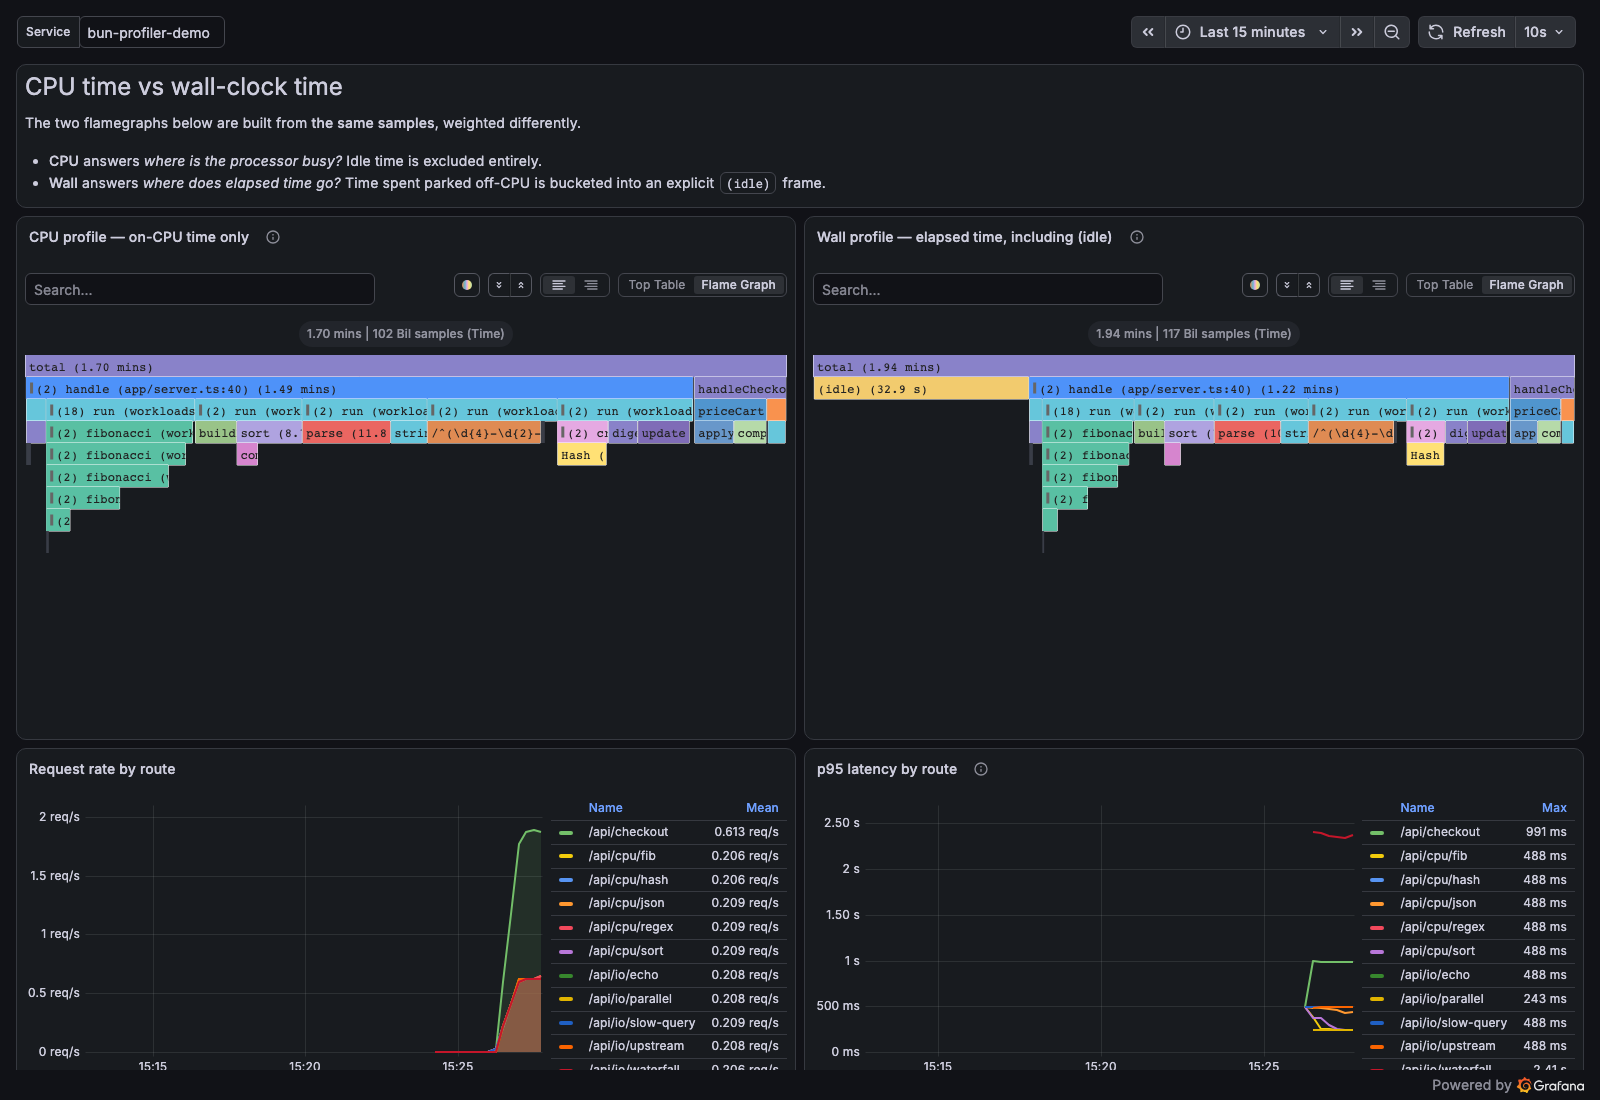
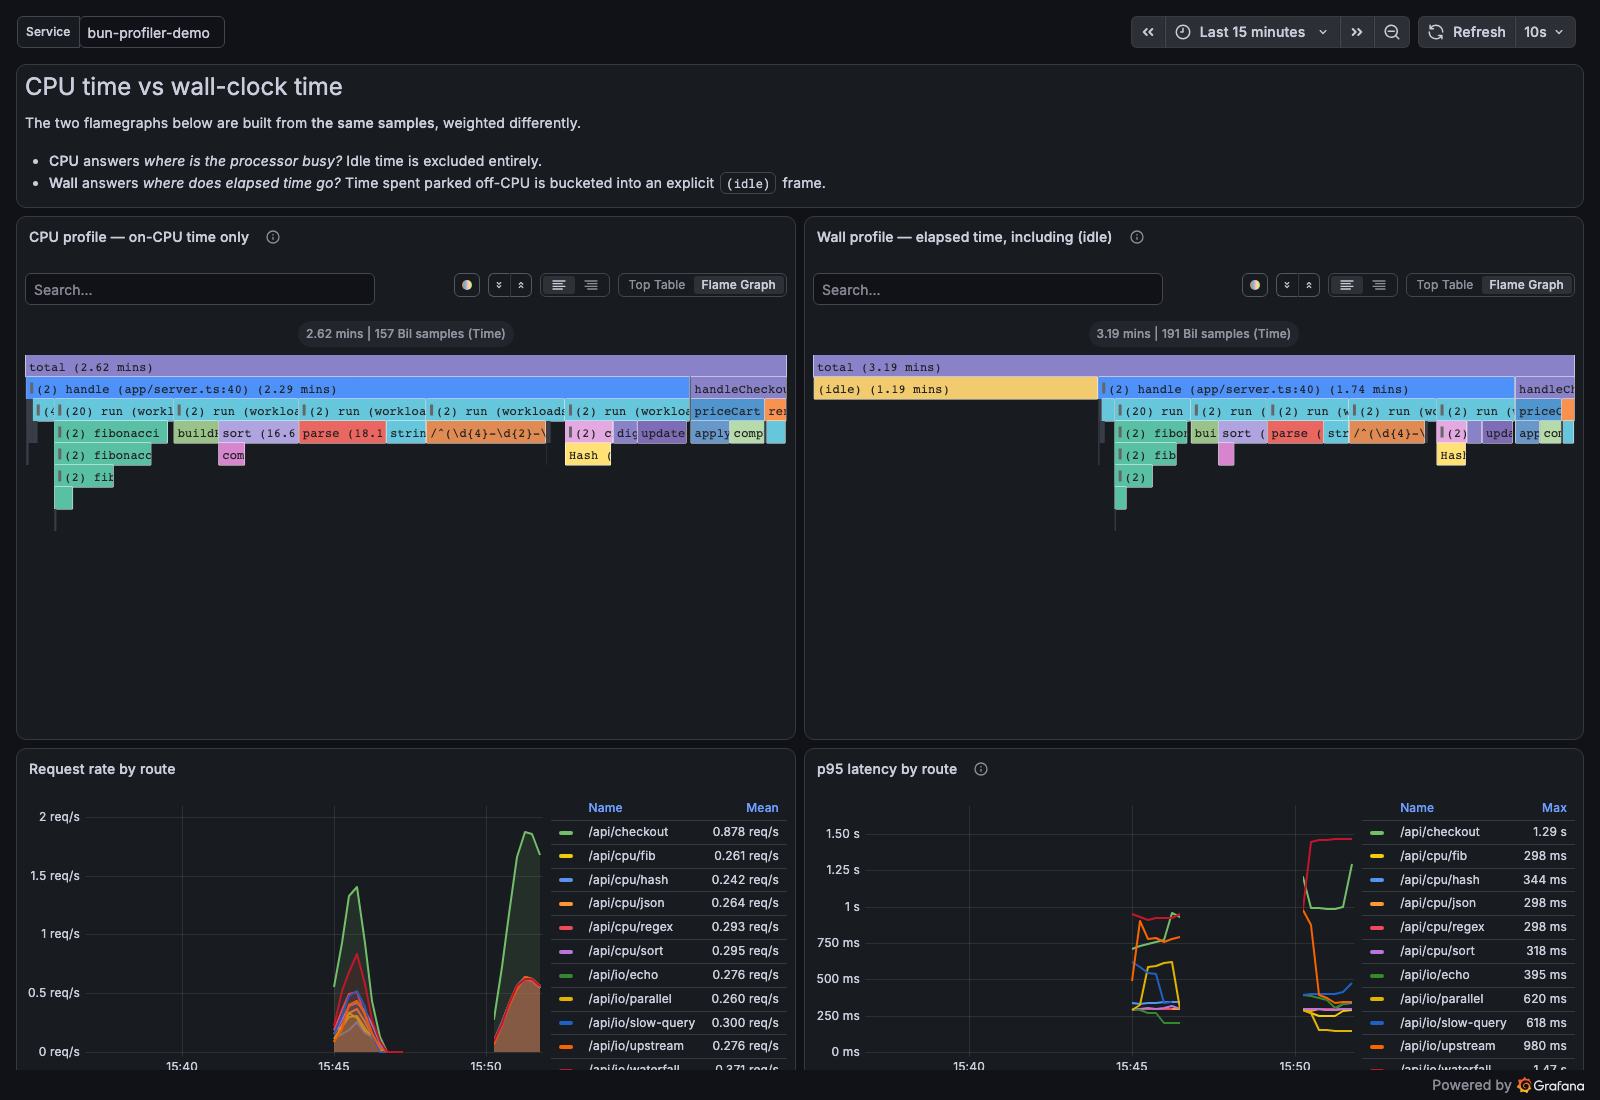
feat: profiler stats(), healthchecks, and honest latency buckets
Robustness pass over the library and the observability stack.

**stats()** — continuous profiling fails quietly: a dead push loop is
indistinguishable from an idle service, which is how the gzip bug survived. The
profiler now tracks pushed/failed/empty windows, last push time and last error,
so a health endpoint can tell the difference. Deliberately does not treat "no
recent push" as a fault — an idle process legitimately produces empty windows,
and using staleness would flap the container healthcheck. Scope stated honestly
in the docs: it reports what the transport did, so it catches a dead loop and
rejected pushes, but not a server that accepts a push and stores nothing.

**Latency buckets were producing fiction.** Edges jumped 100/250/500/1000 while
nearly every request landed between 130ms and 450ms, so histogram_quantile was
interpolating across a 250ms-wide bucket: /api/io/parallel, a ~130ms route,
reported p95 = 466ms, and every route reported ~488ms. Since the panel exists to
compare the serial waterfall against the concurrent version, the resolution has
to beat the difference being measured. With edges added through the 100-800ms
band the CPU routes now read 298-344ms against 247-279ms means, and waterfall
(1.47s) separates cleanly from parallel (620ms).

**Compose.** Healthchecks for app, Grafana and Prometheus, verified against each
image's actual tooling — the Bun image has no curl or wget so the app check runs
[…]

diff --git a/src/profiler.ts b/src/profiler.ts
@@ -11,6 +11,7 @@ import { buildDefaultLabels, encodePyroscopeName, resolveAppName } from "./label
 import type {
   BunPyroscopeOptions,
   CdpProfile,
+  ProfilerStats,
   ResolvedConfig,
   SamplingHeapProfile,
 } from "./types.js";
@@ -82,6 +83,14 @@ export class BunPyroscope {
   private activeCycle: Promise<void> | null = null;
   /** Kept so stop() can remove them — otherwise every instance leaks two listeners. */
   private signalHandlers: { sigterm: () => void; sigint: () => void } | null = null;
+
+  // Counters backing stats(). A profiler that silently stops delivering is the
+  // failure mode that matters here, so it has to be observable from outside.
+  private pushedWindows = 0;
+  private failedWindows = 0;
+  private emptyWindows = 0;
+  private lastPushAt: number | null = null;
+  private lastError: string | null = null;
 
   constructor(options: BunPyroscopeOptions) {
     const appName = resolveAppName(options.appName);
@@ -259,7 +268,11 @@ export class BunPyroscope {
   private async endWindowAndPush(): Promise<void> {
     if (!this.session) return;
 
-    const windowEnd = Math.floor(Date.now() / 1000);
+    // Pyroscope's ingest range is in whole seconds. tag() ends a window as soon
+    // as its callback returns, and pushIntervalMs may be sub-second, so without
+    // this clamp a fast region yields from === until — a zero-length range that
+    // the server stores as an invisible instant.
+    const windowEnd = Math.max(Math.floor(Date.now() / 1000), this.windowStart + 1);
 
     let profile: CdpProfile;
     try {
@@ -276,6 +289,9 @@ export class BunPyroscope {
 
     const folded = convertToFolded(profile);
     if (!folded) {
+      // Counted, not pushed: normal for an idle process, but a run of these
+      // while the service is busy means the profiler isn't seeing the work.
+      this.emptyWindows++;
       this.log("debug", `Empty profile for window [${windowStart}-${windowEnd}], skipping`);
     } else {
       const sampleRate = calculateSampleRate(profile);
@@ -420,6 +436,8 @@ export class BunPyroscope {
           // open — this runs thousands of times over a process's lifetime.
           await response.arrayBuffer().catch(() => undefined);
           const lines = folded.split("\n").length;
+          this.pushedWindows++;
+          this.lastPushAt = Date.now();
           this.log("debug", `Pushed ${lines} stacks [${from}-${until}] HTTP ${response.status}`);
           return;
         }
@@ -431,19 +449,64 @@ export class BunPyroscope {
         // rate limit — Grafana Cloud returns this) and 408 are explicitly
         // retryable. Treating them as fatal drops every window for the whole
         // duration of a rate limit.
-        if (!err.retryable) throw err;
+        if (!err.retryable) {
+          this.recordFailure(err);
+          throw err;
+        }
 
         lastError = err;
         this.log("warn", `Push failed (attempt ${attempt + 1}): ${err.message}`);
       } catch (fetchErr) {
         // Non-retryable HTTP status — propagate rather than burning retries.
-        if (fetchErr instanceof PushError && !fetchErr.retryable) throw fetchErr;
+        if (fetchErr instanceof PushError && !fetchErr.retryable) {
+          this.recordFailure(fetchErr);
+          throw fetchErr;
+        }
         lastError = fetchErr instanceof Error ? fetchErr : new Error(String(fetchErr));
         this.log("warn", `Push error (attempt ${attempt + 1}): ${lastError.message}`);
       }
     }
 
-    if (lastError) throw lastError;
+    if (lastError) {
+      this.recordFailure(lastError);
+      throw lastError;
+    }
+  }
+
+  private recordFailure(err: Error): void {
+    this.failedWindows++;
+    this.lastError = err.message;
+  }
+
+  /**
+   * A snapshot of what the profiler has actually delivered.
+   *
+   * Continuous profiling fails quietly: a broken push loop looks exactly like an
+   * idle process. Surface this from a health endpoint so the difference is
+   * visible.
+   *
+   * @example
+   * const s = profiler.stats();
+   * // Note "nothing pushed lately" is NOT a fault: an idle process produces no
+   * // samples, so windows are legitimately empty. A dead loop, or pushes that
+   * // have only ever failed, are unambiguous.
+   * const degraded = !s.running || (s.pushedWindows === 0 && s.failedWindows > 0);
+   * return Response.json(s, { status: degraded ? 503 : 200 });
+   */
+  stats(): ProfilerStats {
+    const streams = ["cpu"];
+    if (this.config.wallTime.enabled) streams.push("wall");
+    if (this.config.heap.enabled) streams.push("alloc_space");
+
+    return {
+      running: this.running,
+      pushedWindows: this.pushedWindows,
+      failedWindows: this.failedWindows,
+      emptyWindows: this.emptyWindows,
+      lastPushAt: this.lastPushAt,
+      lastError: this.lastError,
+      streams,
+    };
   }
 
   /**

diff --git a/test/profiler.test.ts b/test/profiler.test.ts
@@ -693,6 +693,102 @@ describe("push failure handling", () => {
   });
 });
 
+describe("ingest window bounds", () => {
+  it("never pushes a zero-length range, even for a sub-second window", async () => {
+    const urls: string[] = [];
+    (globalThis as unknown as { fetch: unknown }).fetch = mock((url: string) => {
+      urls.push(url);
+      return Promise.resolve(new Response("ok", { status: 200 }));
+    });
+
+    // tag() closes its window the moment the callback returns, so this is the
+    // realistic way to produce from === until.
+    profiler = new BunPyroscope(BASE);
+    await profiler.start();
+    await profiler.tag({ job: "quick" }, () => 1 + 1);
+    await profiler.stop();
+    profiler = null;
+
+    expect(urls.length).toBeGreaterThan(0);
+    for (const url of urls) {
+      const params = new URL(url).searchParams;
+      const from = Number(params.get("from"));
+      const until = Number(params.get("until"));
+      expect(until).toBeGreaterThan(from);
+    }
+
+    (globalThis as unknown as { fetch: unknown }).fetch = _fetchMock;
+  });
+});
+
+describe("stats()", () => {
+  it("reports nothing delivered before start()", () => {
+    const p = new BunPyroscope(BASE);
+    expect(p.stats()).toMatchObject({
+      running: false,
+      pushedWindows: 0,
+      failedWindows: 0,
+      lastPushAt: null,
+      lastError: null,
+    });
+  });
+
+  it("counts a delivered window and timestamps it", async () => {
+    const before = Date.now();
+    profiler = new BunPyroscope(BASE);
+    await profiler.start();
+    await profiler.stop();
+
+    const s = profiler.stats();
+    profiler = null;
+
+    expect(s.pushedWindows).toBeGreaterThan(0);
+    expect(s.failedWindows).toBe(0);
+    expect(s.lastError).toBeNull();
+    expect(s.lastPushAt).toBeGreaterThanOrEqual(before);
+  });
+
+  it("records the failure instead of reporting a clean profiler", async () => {
+    (globalThis as unknown as { fetch: unknown }).fetch = mock(() =>
+      Promise.resolve(new Response("nope", { status: 400 }))
+    );
+
+    profiler = new BunPyroscope({ ...BASE, maxRetries: 0 });
+    await profiler.start();
+    await profiler.stop();
+
+    const s = profiler.stats();
+    profiler = null;
+
+    // Pushes attempted, none accepted — the profiler must not look healthy.
+    expect(s.pushedWindows).toBe(0);
+    expect(s.failedWindows).toBeGreaterThan(0);
+    expect(s.lastError).toContain("HTTP 400");
+
+    (globalThis as unknown as { fetch: unknown }).fetch = _fetchMock;
+  });
+
+  it("lists the enabled profile streams", async () => {
+    const cpuOnly = new BunPyroscope(BASE);
+    expect(cpuOnly.stats().streams).toEqual(["cpu"]);
+
+    const withWall = new BunPyroscope({ ...BASE, wallTime: { enabled: true } });
+    expect(withWall.stats().streams).toEqual(["cpu", "wall"]);
+  });
+
+  it("tracks running state across start and stop", async () => {
+    profiler = new BunPyroscope(BASE);
+    expect(profiler.stats().running).toBe(false);
+
+    await profiler.start();
+    expect(profiler.stats().running).toBe(true);
+
+    await profiler.stop();
+    expect(profiler.stats().running).toBe(false);
+    profiler = null;
+  });
+});
+
 describe("shutdown handlers", () => {
   function signalListenerCount() {
     return process.listenerCount("SIGTERM") + process.listenerCount("SIGINT");

diff --git a/src/types.ts b/src/types.ts
@@ -149,6 +149,38 @@ export interface BunPyroscopeOptions {
   };
 }
 
+/**
+ * A snapshot of what the profiler has actually managed to do.
+ *
+ * Continuous profiling fails quietly by nature: it runs in the background, and
+ * a broken push looks exactly like an idle process — no data either way. Expose
+ * this from a health endpoint so a profiler that has stopped delivering is
+ * visible rather than merely absent.
+ *
+ * It reports what the transport did, so it catches a dead loop and rejected
+ * pushes. It cannot catch a server that accepts a push and then stores nothing.
+ */
+export interface ProfilerStats {
+  /** Whether the push loop is currently active. */
+  running: boolean;
+  /** Windows accepted by the server. */
+  pushedWindows: number;
+  /** Windows dropped after exhausting retries. */
+  failedWindows: number;
+  /**
+   * Windows that produced no samples and were skipped. Entirely normal for an
+   * idle process; a count that tracks pushedWindows means the profiler isn't
+   * seeing your workload.
+   */
+  emptyWindows: number;
+  /** ms since epoch of the last accepted push, or null if none has succeeded. */
+  lastPushAt: number | null;
+  /** Message from the most recent failure, or null. */
+  lastError: string | null;
+  /** Profile types being pushed, e.g. ["cpu", "wall"]. */
+  streams: string[];
+}
+
 /** Internal fully-resolved configuration with all defaults applied. */
 export interface ResolvedConfig {
   pyroscopeUrl: string;

diff --git a/dev/app/server.ts b/dev/app/server.ts
@@ -66,7 +66,27 @@ const routes: Record<string, (req: Request) => Promise<Response> | Response> = {
       headers: { "Content-Type": "text/plain; version=0.0.4; charset=utf-8" },
     }),
 
-  "/health": () => Response.json({ status: "ok", app: APP_NAME }),
+  // Reports the profiler's own delivery state, not just "the process is up".
+  // A profiler that has stopped pushing is otherwise indistinguishable from an
+  // idle one, which is exactly how the gzip bug hid for so long.
+  "/health": () => {
+    const profiling = profiler.stats();
+
+    // Deliberately not "nothing pushed recently": an idle process produces no
+    // samples, so silence is normal and would flap the container healthcheck.
+    // What is never normal is the loop being dead, or every push failing.
+    //
+    // Note this cannot catch a server that accepts a push and stores nothing
+    // (the gzip case answered HTTP 200), which is why that is handled by
+    // defaulting compress off rather than by monitoring.
+    const degraded =
+      !profiling.running || (profiling.pushedWindows === 0 && profiling.failedWindows > 0);
+
+    return Response.json(
+      { status: degraded ? "degraded" : "ok", app: APP_NAME, profiling },
+      { status: degraded ? 503 : 200 }
+    );
+  },
 
   "/api/io/echo": (req) => handle("/api/io/echo", () => echo(new URL(req.url))),
 };

diff --git a/dev/app/metrics.ts b/dev/app/metrics.ts
@@ -6,7 +6,21 @@
  * to exist or the target sits permanently DOWN.
  */
 
-const LATENCY_BUCKETS_MS = [5, 10, 25, 50, 100, 250, 500, 1000, 2500, 5000];
+/**
+ * Bucket edges concentrated where this demo's latencies actually land
+ * (~130ms parallel, ~250ms slow-query, ~280ms CPU, ~400ms waterfall,
+ * ~440ms checkout under load).
+ *
+ * histogram_quantile interpolates linearly *within* a bucket, so a coarse
+ * bucket makes the quantile a guess. With the previous 100/250/500/1000 edges
+ * nearly every request fell into 250→500, and p95 for the ~130ms
+ * /api/io/parallel route was reported as 466ms — the panel's whole purpose is
+ * comparing that route against the waterfall, so the resolution has to be finer
+ * than the difference being measured.
+ */
+const LATENCY_BUCKETS_MS = [
+  5, 10, 25, 50, 100, 150, 200, 250, 300, 350, 400, 500, 650, 800, 1000, 1500, 2500, 5000,
+];
 
 interface RouteStats {
   count: number;

diff --git a/src/index.ts b/src/index.ts
@@ -14,6 +14,7 @@ export type {
   CdpNode,
   CdpProfile,
   HeapProfileNode,
+  ProfilerStats,
   SamplingHeapProfile,
 } from "./types.js";
 

diff --git a/README.md b/README.md
@@ -104,6 +104,43 @@ A delta larger than twice the sampling interval is treated as a gap: the stack i
 
 On Node.js/V8, which does emit real `(idle)` samples, those are already attributed correctly and are passed through untouched.
 
+## Checking the profiler is actually working
+
+Continuous profiling fails quietly. It runs in the background, and a profiler that has stopped delivering looks exactly like a service that happens to be idle — no data either way. `stats()` makes the difference visible:
+
+```ts
+const profiler = startProfiling({ pyroscopeUrl: "...", appName: "my-service" });
+
+Bun.serve({
+  routes: {
+    "/health": () => {
+      const s = profiler.stats();
+      // "Nothing pushed lately" is NOT a fault — an idle process produces no
+      // samples, so empty windows are correct. A dead loop, or pushes that have
+      // only ever failed, are unambiguous.
+      const degraded = !s.running || (s.pushedWindows === 0 && s.failedWindows > 0);
+      return Response.json(s, { status: degraded ? 503 : 200 });
+    },
+  },
+});
+```
+
+```json
+{
+  "running": true,
+  "pushedWindows": 42,
+  "failedWindows": 0,
+  "emptyWindows": 3,
+  "lastPushAt": 1785131313353,
+  "lastError": null,
+  "streams": ["cpu", "wall"]
+}
+```
+
+`emptyWindows` climbing alongside `pushedWindows` is normal. `emptyWindows` climbing while `pushedWindows` doesn't, on a service you know is busy, means the profiler isn't seeing your work.
+
+This reports what the transport did, so it catches a dead loop and rejected pushes. It cannot catch a server that accepts a push and stores nothing — see the `compress` warning above for the one case where that happens.
+
 ## Tagging a region of code
 
 `tag()` splits the profiling window so a specific block of work gets its own labelled stream — useful for a background job, a migration, or one hot endpoint:
